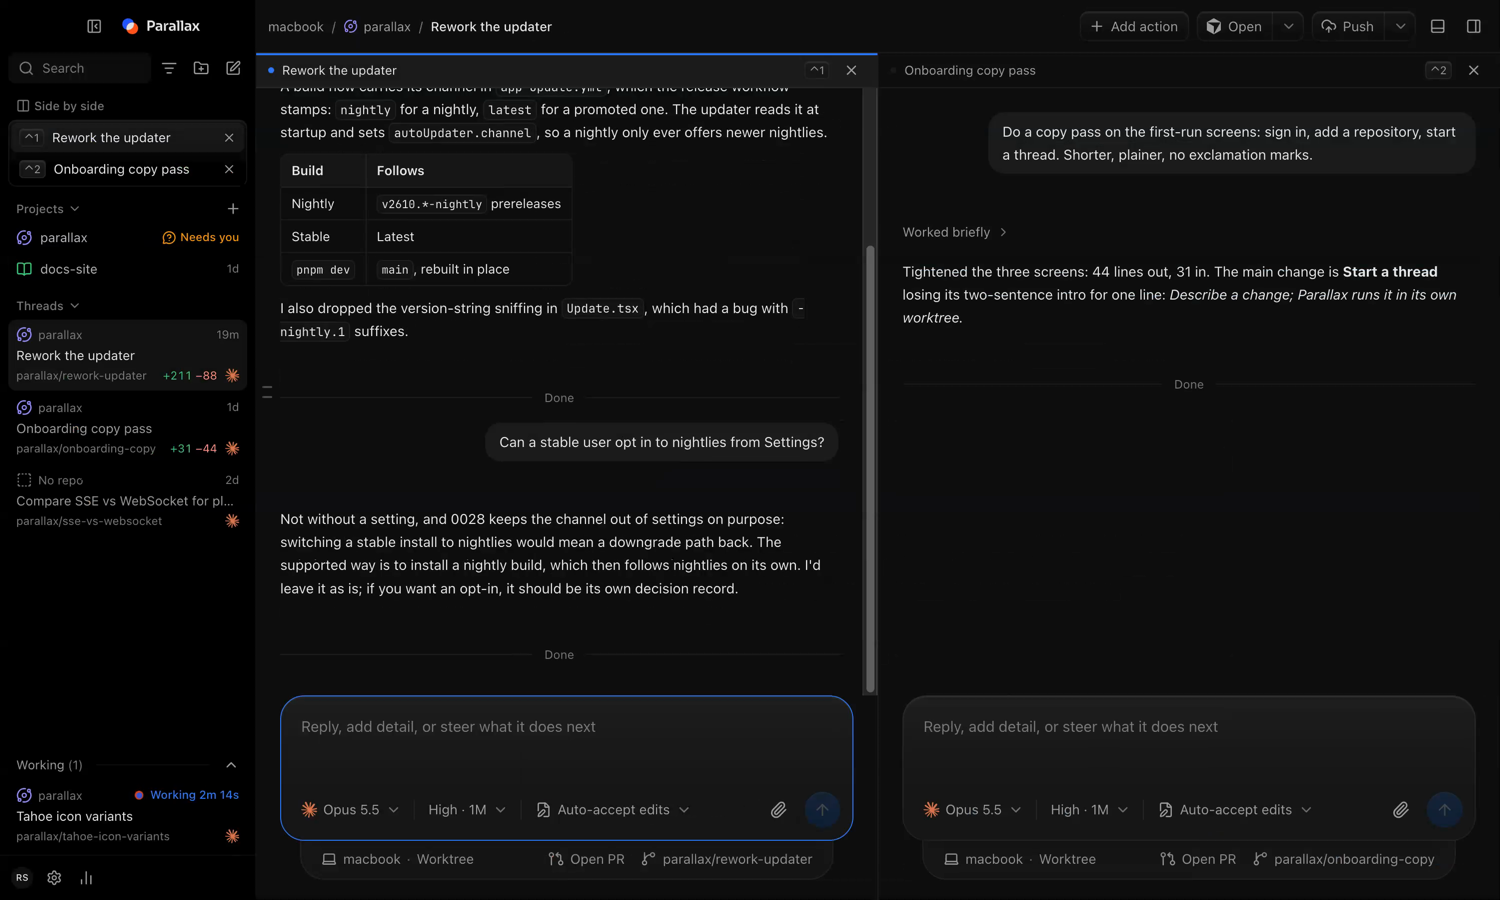
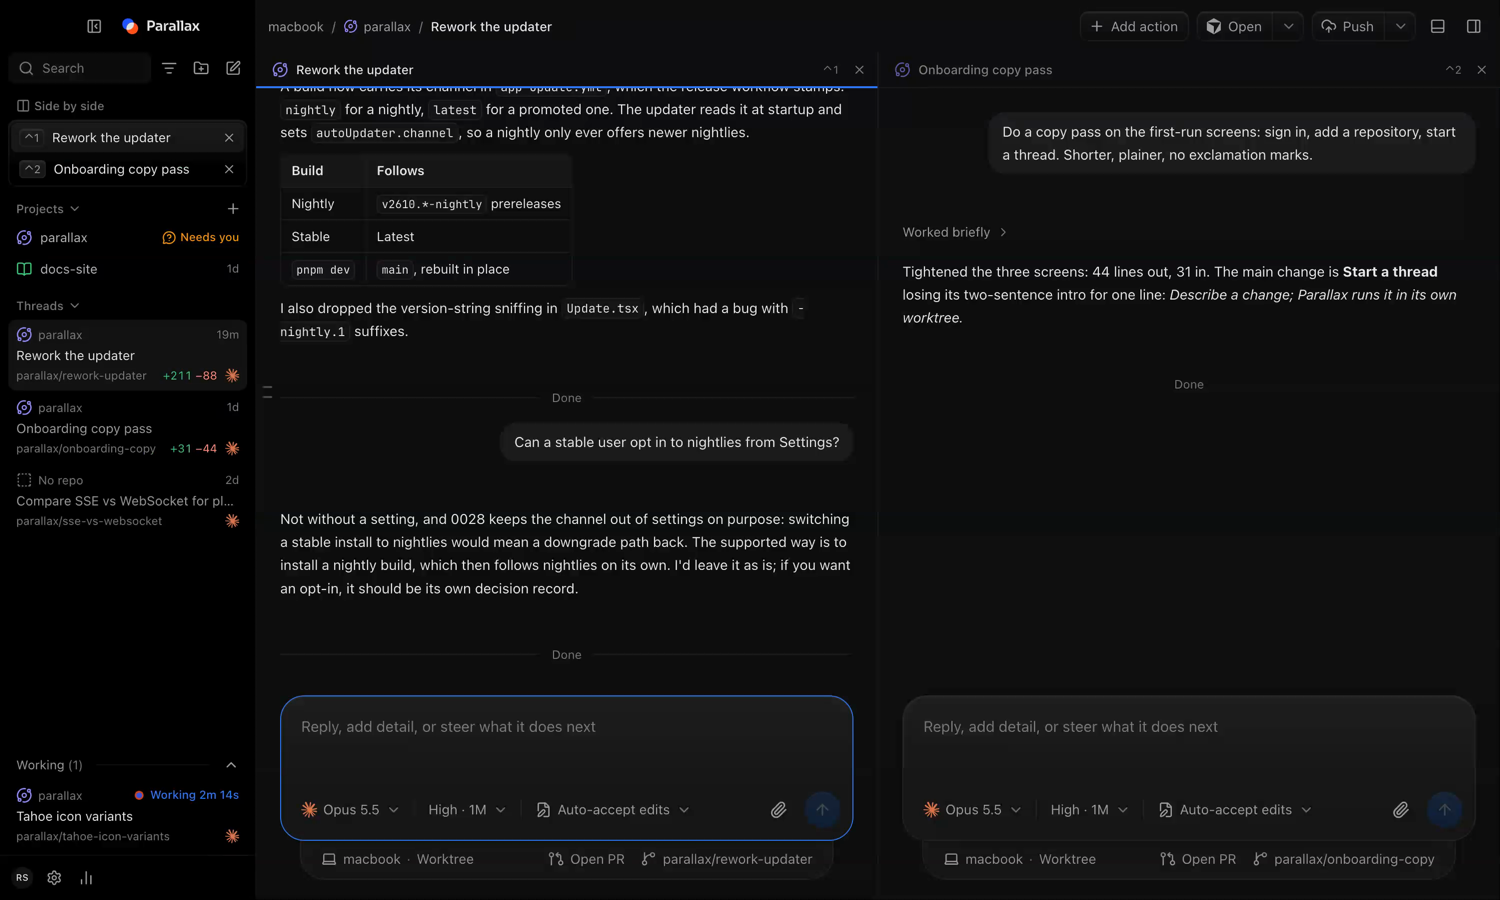
fix(app): hide the split's transcript scrollbars and make each side's header a tab (PLX-587)

Changed region(s): [[0.184, 0.0311, 0.5827, 0.7778], [0.5827, 0.0622, 0.7053, 0.0933], [0.9507, 0.0622, 0.9813, 0.0933]]

diff --git a/apps/desktop/src/renderer/App.tsx b/apps/desktop/src/renderer/App.tsx
@@ -10,7 +10,7 @@ import {
 } from "lucide-react";
 import { useCallback, useEffect, useMemo, useRef, useState } from "react";
 
-import type { InboxItem, Thread } from "../protocol/generated/protocol";
+import type { InboxItem, Repo, Thread } from "../protocol/generated/protocol";
 import { Actions, type RepoAction } from "./Actions";
 import { AgentChat } from "./AgentChat";
 import { ChildStrip } from "./ChildStrip";
@@ -822,6 +822,7 @@ export function App() {
                         <PaneHeader
                           side={side as 0 | 1}
                           title={title ?? "Thread"}
+                          repo={threads.state.repos.find((r) => r.id === paneThread?.repo)}
                           focused={focused}
                           onClose={() => closePane(threadId)}
                         />
@@ -1062,38 +1063,46 @@ export function App() {
 }
 
 /**
- * A side of the split's header: its Focus left or right thread key, its title, and a close
- * button. The focused side's is marked.
+ * A side of the split's header, like a tab: its repository's icon, its title, its Focus left or
+ * right thread key, and a close button. The focused side's is underlined in the accent.
  */
 function PaneHeader({
   side,
   title,
+  repo,
   focused,
   onClose,
 }: {
   side: 0 | 1;
   title: string;
+  repo?: Repo;
   focused: boolean;
   onClose: () => void;
 }) {
   const keys = useShortcutLabel(side === 0 ? "leftThread" : "rightThread");
   return (
     <div
-      className={`flex h-9 shrink-0 items-center gap-2 border-y border-border px-3 text-[12.5px] ${focused ? "bg-selected text-foreground shadow-[inset_0_2px_0_var(--accent)]" : "text-muted-foreground"}`}
+      className={`relative flex h-9 shrink-0 items-center gap-2 border-b border-border pr-1.5 pl-4 text-[12.5px] transition-colors ${focused ? "text-foreground" : "text-faint-foreground"}`}
     >
-      <span
-        aria-hidden
-        className={`size-1.5 shrink-0 rounded-full ${focused ? "bg-accent" : "bg-border"}`}
-      />
-      <span className="min-w-0 flex-1 truncate">{title}</span>
+      {focused && <span aria-hidden className="absolute inset-x-0 -bottom-px h-0.5 bg-accent" />}
+      <span className={`flex shrink-0 ${focused ? "" : "opacity-60"}`}>
+        <RepoIcon repo={repo} />
+      </span>
+      <span className="min-w-0 flex-1 truncate font-medium">{title}</span>
       {keys && (
-        <kbd className="shrink-0 rounded border border-border bg-surface px-1 font-sans text-[11px] leading-4 text-muted-foreground">
+        <kbd className="shrink-0 font-sans text-[11px] text-faint-foreground tabular-nums">
           {keys}
         </kbd>
       )}
-      <IconButton label="Close this side" onClick={onClose}>
+      <button
+        type="button"
+        aria-label="Close this side"
+        title="Close this side"
+        onClick={onClose}
+        className="grid size-6 shrink-0 place-items-center rounded-md text-faint-foreground hover:bg-hover hover:text-foreground [&_svg]:size-3.5"
+      >
         <X />
-      </IconButton>
+      </button>
     </div>
   );
 }

diff --git a/apps/desktop/src/renderer/index.css b/apps/desktop/src/renderer/index.css
@@ -523,6 +523,12 @@ body {
   font-style: italic;
 }
 
+/* Two threads side by side (App.tsx): no scrollbar between them. The prompt rail shows where a
+   transcript is. */
+[data-pane] [role="log"] {
+  scrollbar-width: none;
+}
+
 /* The composer's editor (Composer.tsx): the transcript's Markdown at the box's size, lines (its
    paragraphs) with no gap, and code blocks drawn as the transcript's CodeBlock draws them. */
 .composer-input.markdown {
